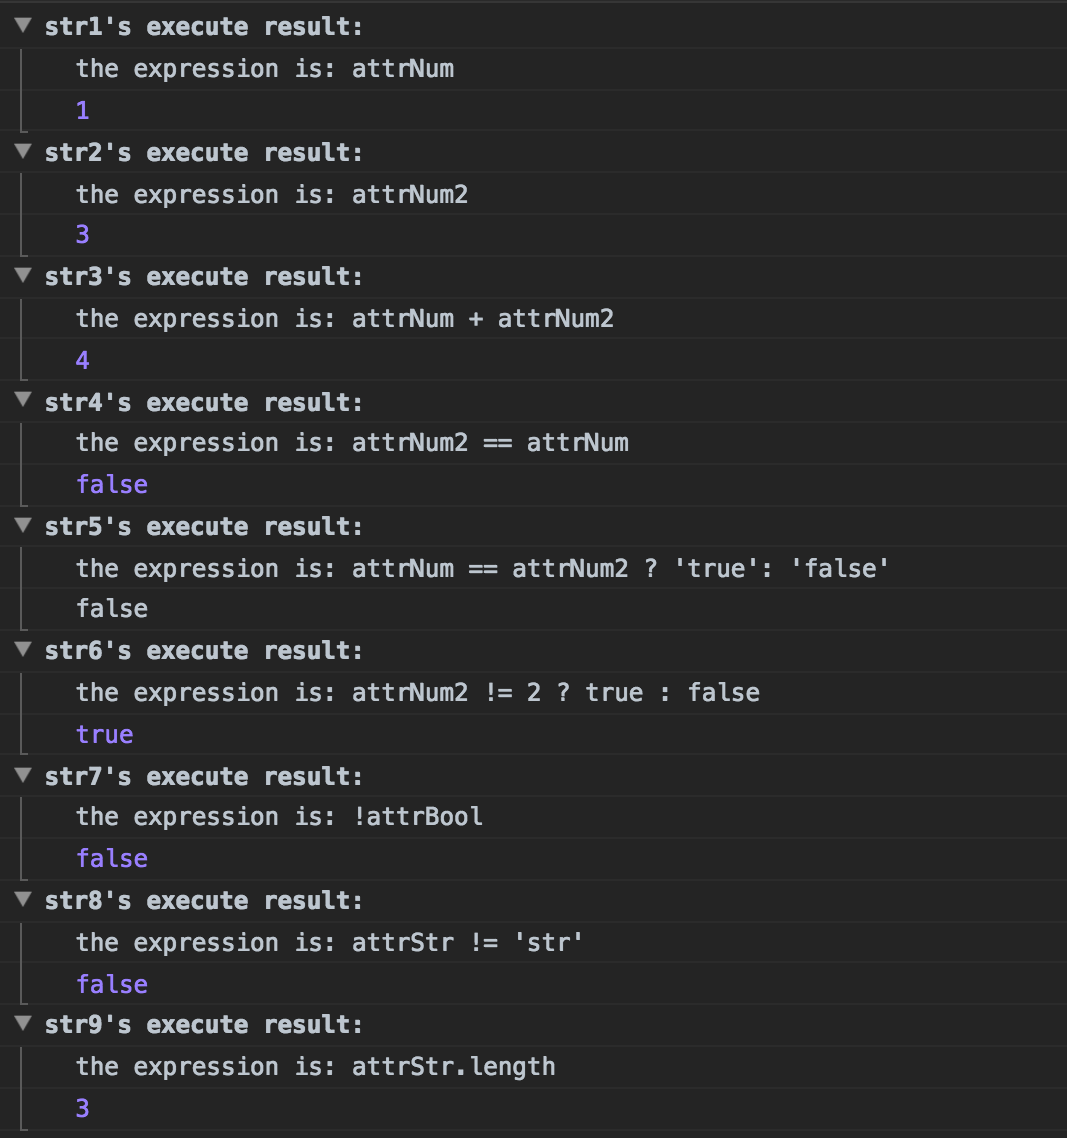
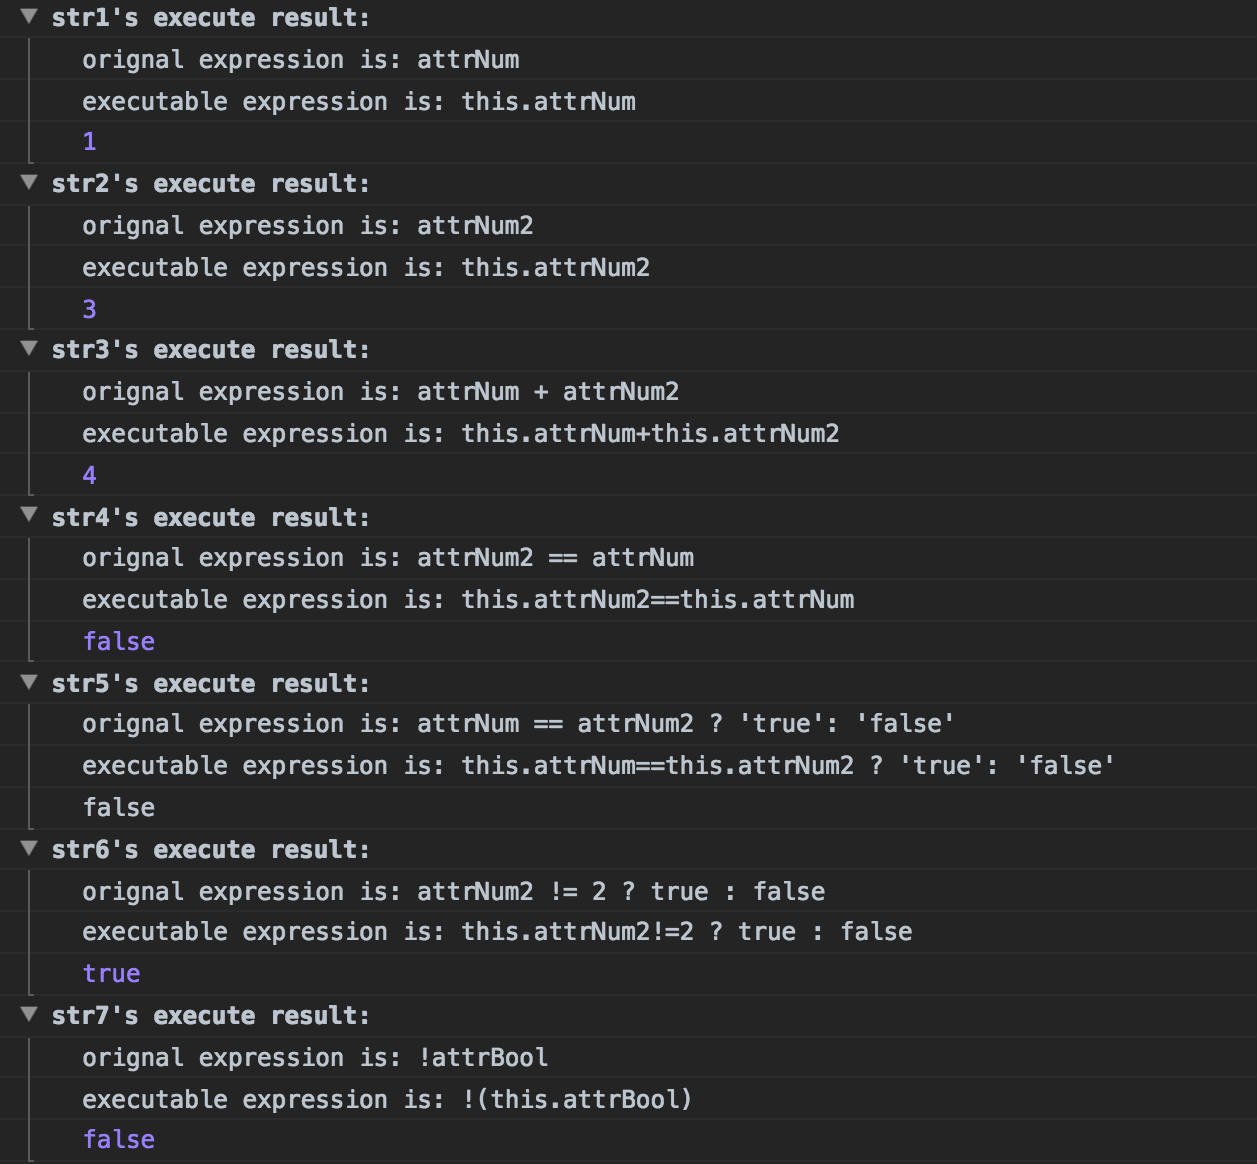
support the complex calculate

diff --git a/index.html b/index.html
@@ -37,7 +37,7 @@
     var str10 = "attrArr";
     var str11 = "attrArr.length";
     var str12 = "attrArr['length']";
-    var str13 = "attrArr.length != attrNum2";
+    var str13 = "attrArr.length == attrNum2";
     var str14 = "attrArr['length'] != attrNum2";
 
     var str15 = "attrObj.key";
@@ -45,15 +45,17 @@
     var str17 = "attrObj['key2'] == attrObj.key";
 
     var str18 = "attrNum + attrNum2";
-    var str19 = "(attrNum + attrNum2) * 3";
-    var str20 = "attrNum + attrNum2 > 3 ? 'true': 'false'";
+    var str19 = "attrNum + attrNum2 * 3";
+    var str20 = "(attrNum + attrNum2) * 3";
+    var str21 = "attrNum + attrNum2 > 3 ? 'true': 'false'";
+    var str22 = "(attrNum + attrArr['length']) < 3 ? true: false";
 
-    var conditionReg = /((\!)?\=+|>(\=)?|<(\=)?|\|\||\&\&)/g;
+    var conditionReg = /((\!)?\=+|>(\=)?|<(\=)?|\|\||\&\&)/;
     var boolReg = /^\!+/;
-    var calculateReg = /[\+|\-|\/*|\/|\%]/g;
+    var calculateReg = /[\+|\-|\/*|\/|\%]/;
     var trinocularExpReg = /[\w\W]+\?[\w\W]+\:[\w\W]+/;
-    var bracketsReg = /^\([\w\W]+\)$/g;
-    var bracketsReplace = /^\(|\)$/g;
+    var bracketsReg = /\([\w\W]+\)(\w\W)?/g;
+    var bracketsReplace = /\(|\)/g;
     var attrReg = /(\w\W)+(\[(\w\W)+\])+/g;
 
     function trim(str) {
@@ -62,7 +64,7 @@
 
     function buildFunctionStr(str, context) {
         if (arguments.length < 2) {
-            throw new Error("method exec must pass in two arguments");
+            throw new Error("method buildFunctionStr must pass in two arguments");
         }
 
         var isCondition = false,
@@ -90,6 +92,9 @@
                 isCalculateIn = false,
                 calculateIn = "",
                 isTrinocularIn = false,
+                withBrackets = false,
+                bracketsIn = "",
+                bracketsInStr = "",
                 isAttrIn = false,
                 strArrIn = [strIn];
 
@@ -98,6 +103,7 @@
             isConditionIn = conditionReg.test(strIn);
             isCalculateIn = calculateReg.test(strIn);
             isBooleanIn = boolReg.test(strIn);
+            withBrackets = bracketsReg.test(strIn);
 
             if (isConditionIn) {
                 conditionIn = strIn.match(conditionReg)[0];
@@ -115,8 +121,7 @@
 
                     return staI;
                 }).join(conditionIn);
-
-            } else if (isCalculateIn) {
+            } else if (isCalculateIn && !withBrackets) {
                 calculateIn = strIn.match(calculateReg)[0];
                 strArrIn = strIn.split(calculateIn);
 
@@ -133,6 +138,14 @@
                     return staI;
                 }).join(calculateIn);
 
+            } else if(withBrackets) {
+            	bracketsIn = strIn.match(bracketsReg)[0];
+
+            	bracketsInStr = buildFunctionStr(bracketsIn.replace(bracketsReplace, ""), context);
+            	strIn = buildFunctionStr(strIn.replace(bracketsIn, ""), context);
+
+            	strIn = "(" + bracketsInStr + ")" + strIn;
+
             } else if (isBooleanIn) {
             	booleanIn = strIn.match(boolReg)[0];
             	strIn = strIn.replace(booleanIn, "");
@@ -141,9 +154,6 @@
             		new Function("return this." + strIn).call(context);
             		strIn = "this." + strIn;
             	} catch (ex) {
-
-            		console.log(strIn);
-
             		strIn = strIn;
             	}
 
@@ -175,14 +185,19 @@
         if (arguments.length < 2) {
             throw new Error("method exec must pass in two arguments");
         }
-        return new Function("return " + buildFunctionStr(str, context)).call(context);
+        var execStr = buildFunctionStr(str, context);
+        console.log("executable expression is: " + execStr);
+        return new Function("return " + execStr).call(context);
     }
 
-    for (var i = 1; i <= 18; i++) {
-        console.group("str" + i + "'s execute result:");
-        console.log("the expression is: " + window["str" + i]);
-        console.log(exec(window["str" + i], obj));
-        console.groupEnd();
+    for (var i = 1; i <= 25; i++) {
+    	var variable = window["str" + i];
+    	if(variable !== undefined) {
+	        console.group("str" + i + "'s execute result:");
+	        console.log("orignal expression is: " + window["str" + i]);
+	        console.log(exec(window["str" + i], obj));
+	        console.groupEnd();
+    	}
     }
     </script>
 </body>

diff --git a/README.md b/README.md
@@ -2,6 +2,24 @@
 
 根据相关字符串取得javascript对象中的属性并且计算出结果
 
+在很多javascript的MVVM框架中,用的最多的就是指令,通过在html上指定指令对应的属性值为一个字符串时,完成数据的双向绑定
+
+比如在angularjs(1.x)中的部分指令
+
+    ng-bind="text"  
+    
+    ng-repeat="item in array"
+    
+    ng-hide="item.length == 0"
+    
+    //  ...等等
+
+想想其中原理,个人觉得可以通过把字符串拆分成多块,然后尝试给该字符串前面加上"this."来修改其作用对象,最后把拆分并且经过处理的字符串组合在一起,通过
+
+    new Fucntion("return ...").call(obj);
+    
+来求得计算结果并返回
+
 举个🌰：
 
     //  定义一个对象,下面有这么些属性和值
@@ -35,7 +53,7 @@
     var str10 = "attrArr";
     var str11 = "attrArr.length";
     var str12 = "attrArr['length']";
-    var str13 = "attrArr.length != attrNum2";
+    var str13 = "attrArr.length == attrNum2";
     var str14 = "attrArr['length'] != attrNum2";
 
     var str15 = "attrObj.key";
@@ -43,25 +61,26 @@
     var str17 = "attrObj['key2'] == attrObj.key";
 
     var str18 = "attrNum + attrNum2";
+    var str19 = "attrNum + attrNum2 * 3";
+    var str20 = "(attrNum + attrNum2) * 3";
+    var str21 = "attrNum + attrNum2 > 3 ? 'true': 'false'";
+    var str22 = "(attrNum + attrArr['length']) < 3 ? true: false";
     
-    for (var i = 1; i <= 16; i++) {
-        console.group("str" + i + "'s execute result:");
-        console.log("the expression is: " + window["str" + i]);
-        console.log(exec(window["str" + i], obj));
-        console.groupEnd();
+    //  然后执行下面的for循环
+    for (var i = 1; i <= 25; i++) {
+    	var variable = window["str" + i];
+    	if(variable !== undefined) {
+	        console.group("str" + i + "'s execute result:");
+	        console.log("orignal expression is: " + window["str" + i]);
+	        console.log(exec(window["str" + i], obj));
+	        console.groupEnd();
+    	}
     }
     
 进入浏览器控制台,将会看到下面的运行结果
     
-![1-9](1.png)
+![1-7](1.png)
 
+![8-14](2.png)
 
-![10-18](2.png)
-
-------
-
-##### TODO
-
-暂时不支持带指定优先级(指定了"()")的计算,需要在复杂表达式上做处理
-
-
+![15-22](3.png)
